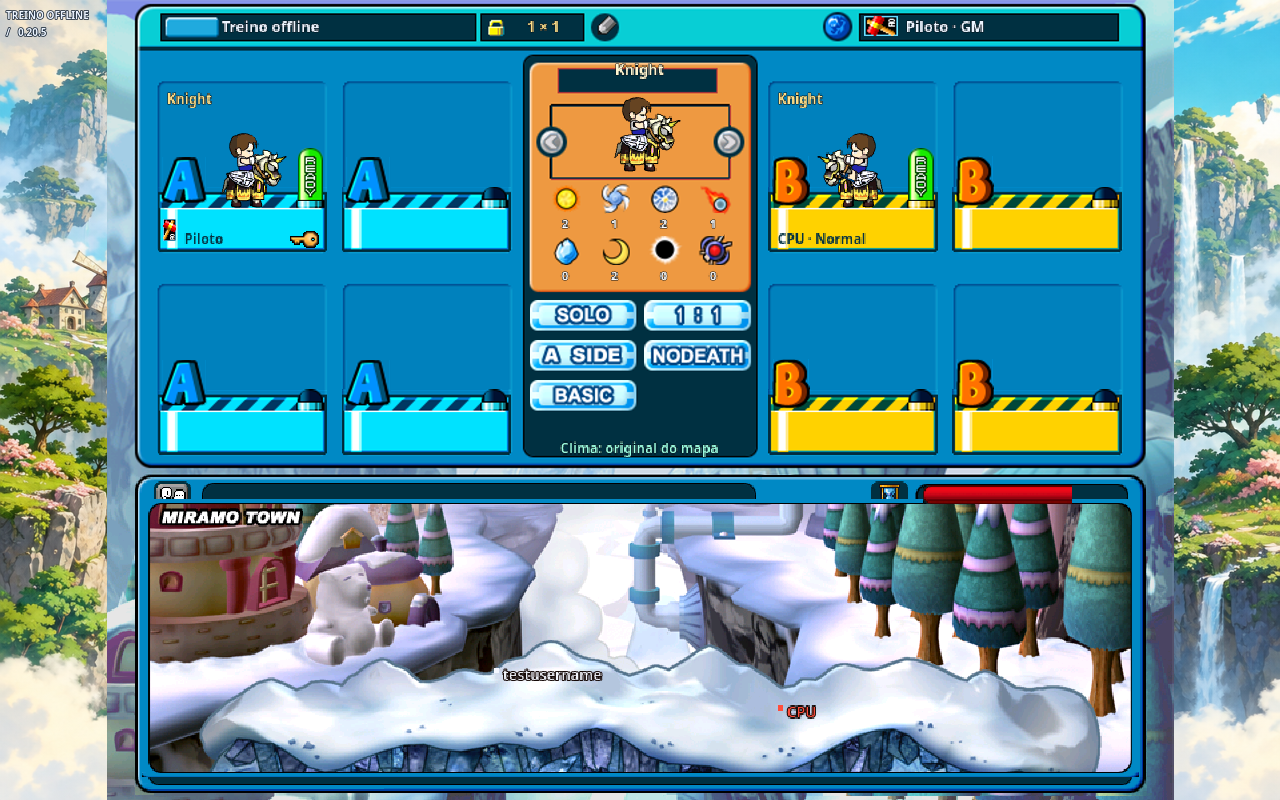
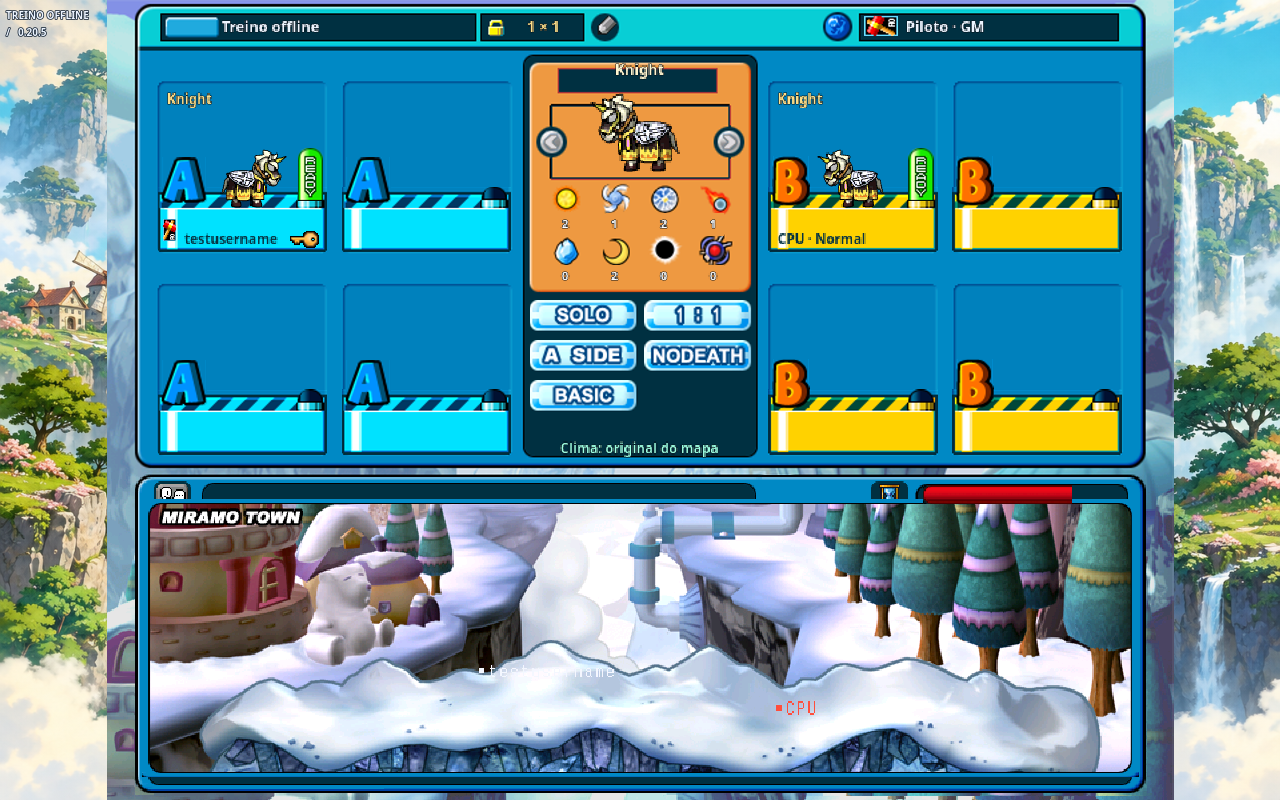
fix: keep loading-screen mobiles at their native aspect
The center window was a rig squeezed into the map slot, and the legacy
Bigfoot rider stretched the other hulls. Slots and the card now use the
tank frame at one scale, and the map names use the room bitmap font.

diff --git a/docs/sdd/LOADING_SCREEN.md b/docs/sdd/LOADING_SCREEN.md
@@ -24,6 +24,11 @@ Os pontos continuam os da lista já usada por `Match.start`: o piloto na
 metade esquerda, a máquina na direita. A tela mostra esses pontos e a
 partida recebe o mesmo par, sem novo sorteio.
 
+O card central mostra o quadro idle do mobile sorteado, com a proporção
+original (`STRETCH_KEEP_ASPECT_CENTERED`). Os lugares desenham só o casco
+nativo: a folha de piloto legada é a do Bigfoot e estica os outros mobiles.
+Os nomes no mapa usam a fonte 8×12 da sala, com contorno de 2 px.
+
 ## Limites
 
 Revanche e `start_match()` chamado direto não passam pela espera. Não há
